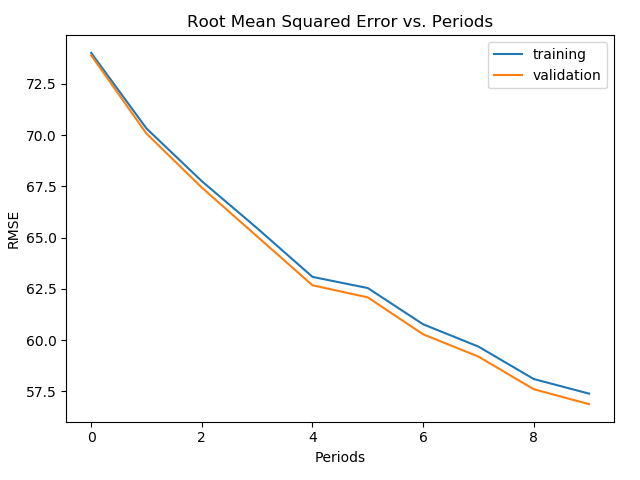
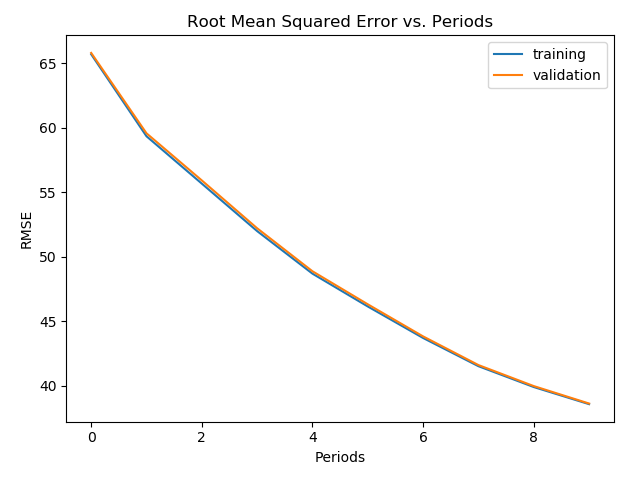
RMSE: 38.59

diff --git a/AllFeatures.py b/AllFeatures.py
@@ -220,7 +220,7 @@ def train_model(
 
 linear_regressor = train_model(
     learning_rate=0.2,
-    steps=3000,
+    steps=8000,
     batch_size=1000,
     training_examples=training_examples,
     training_targets=training_targets,
